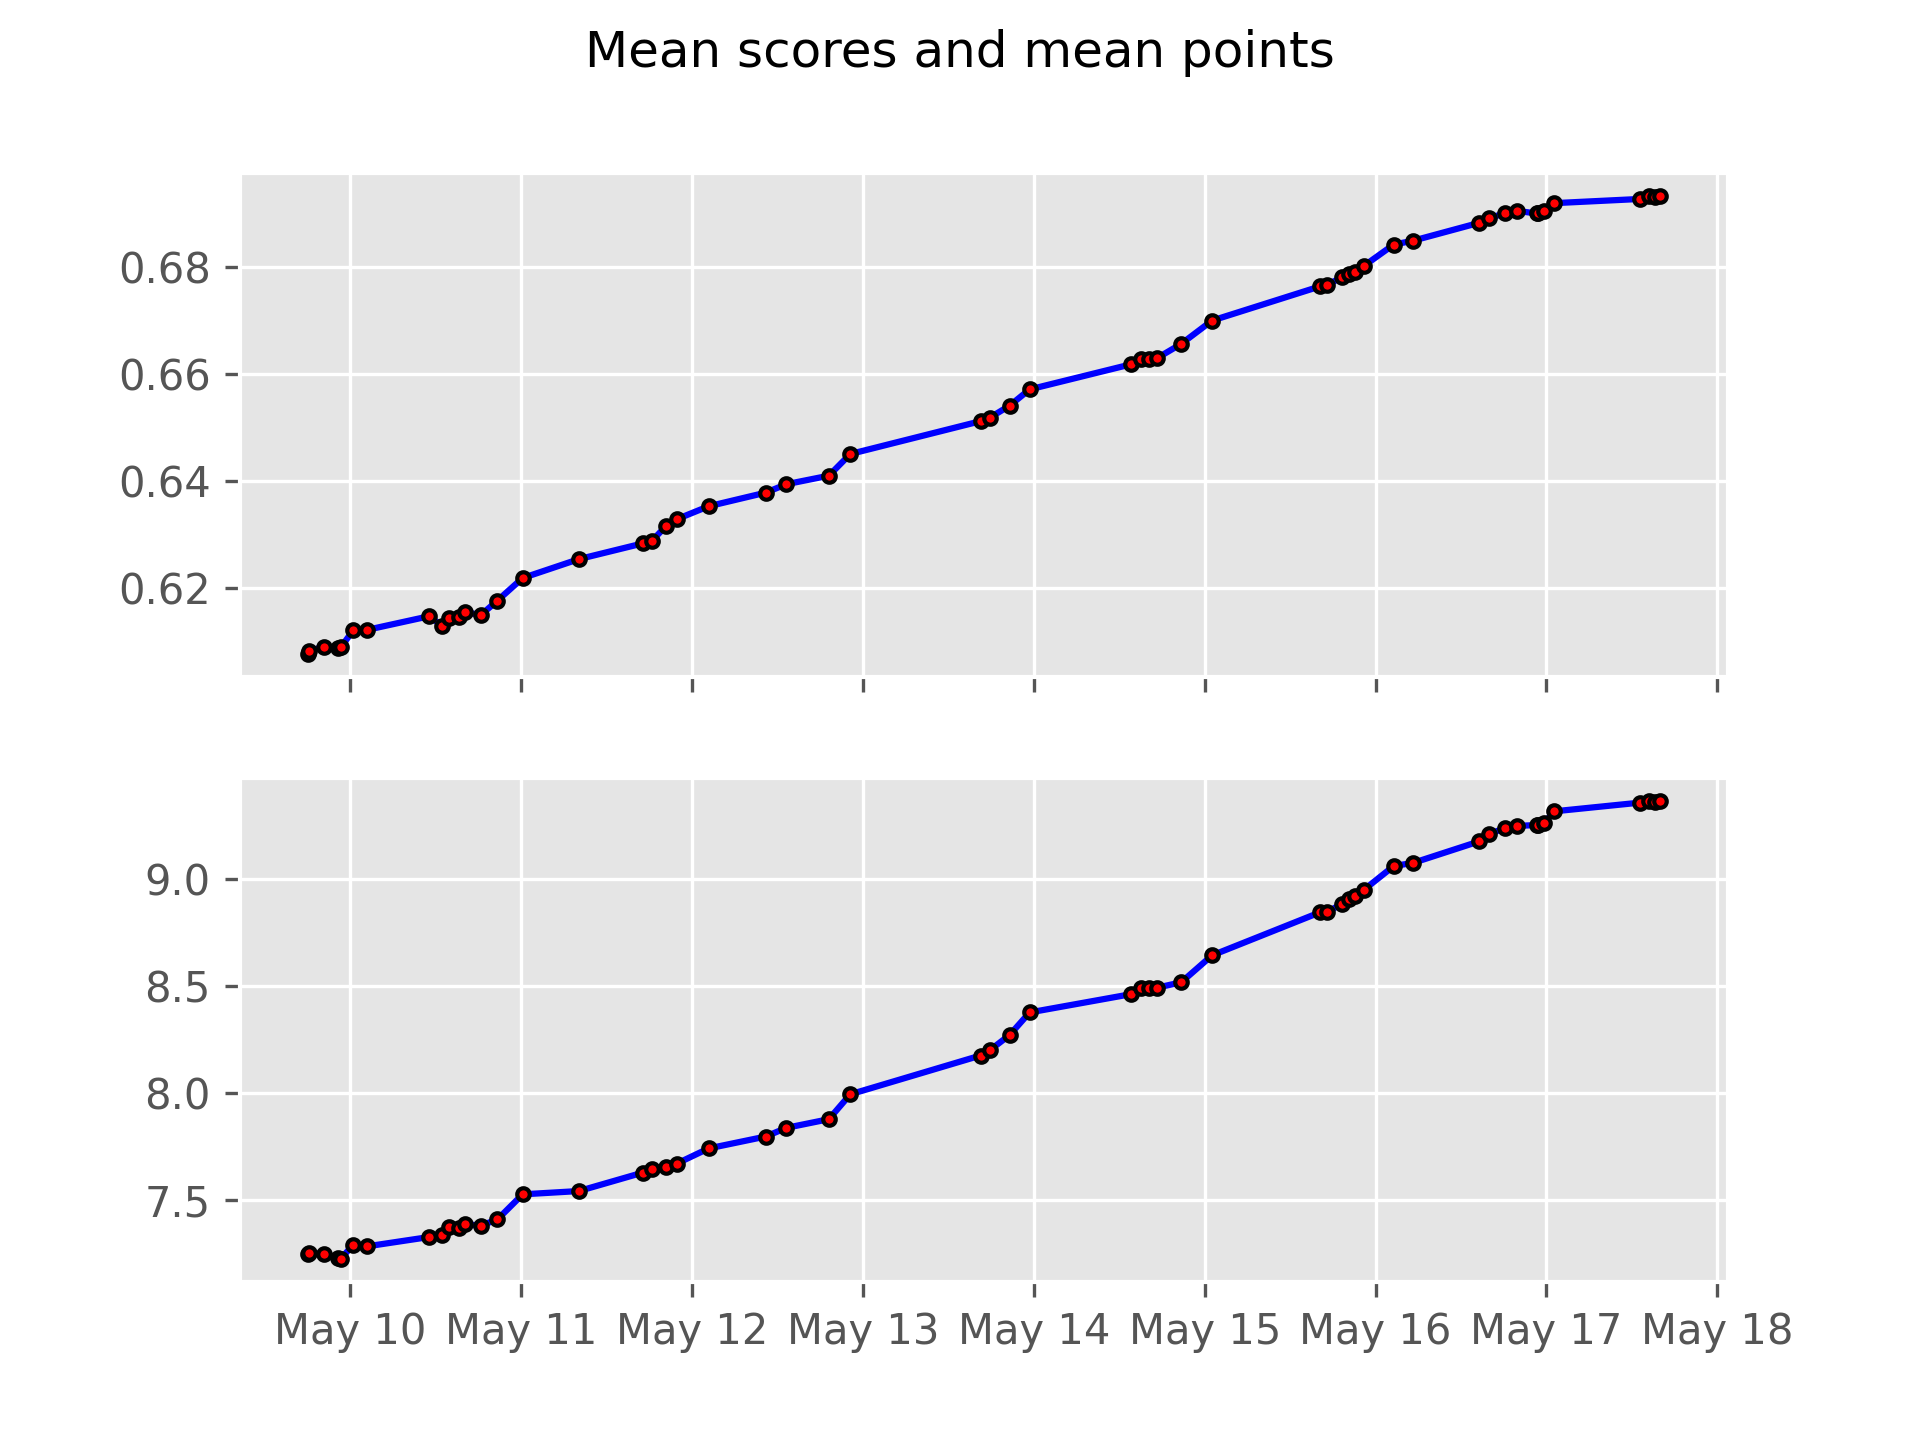
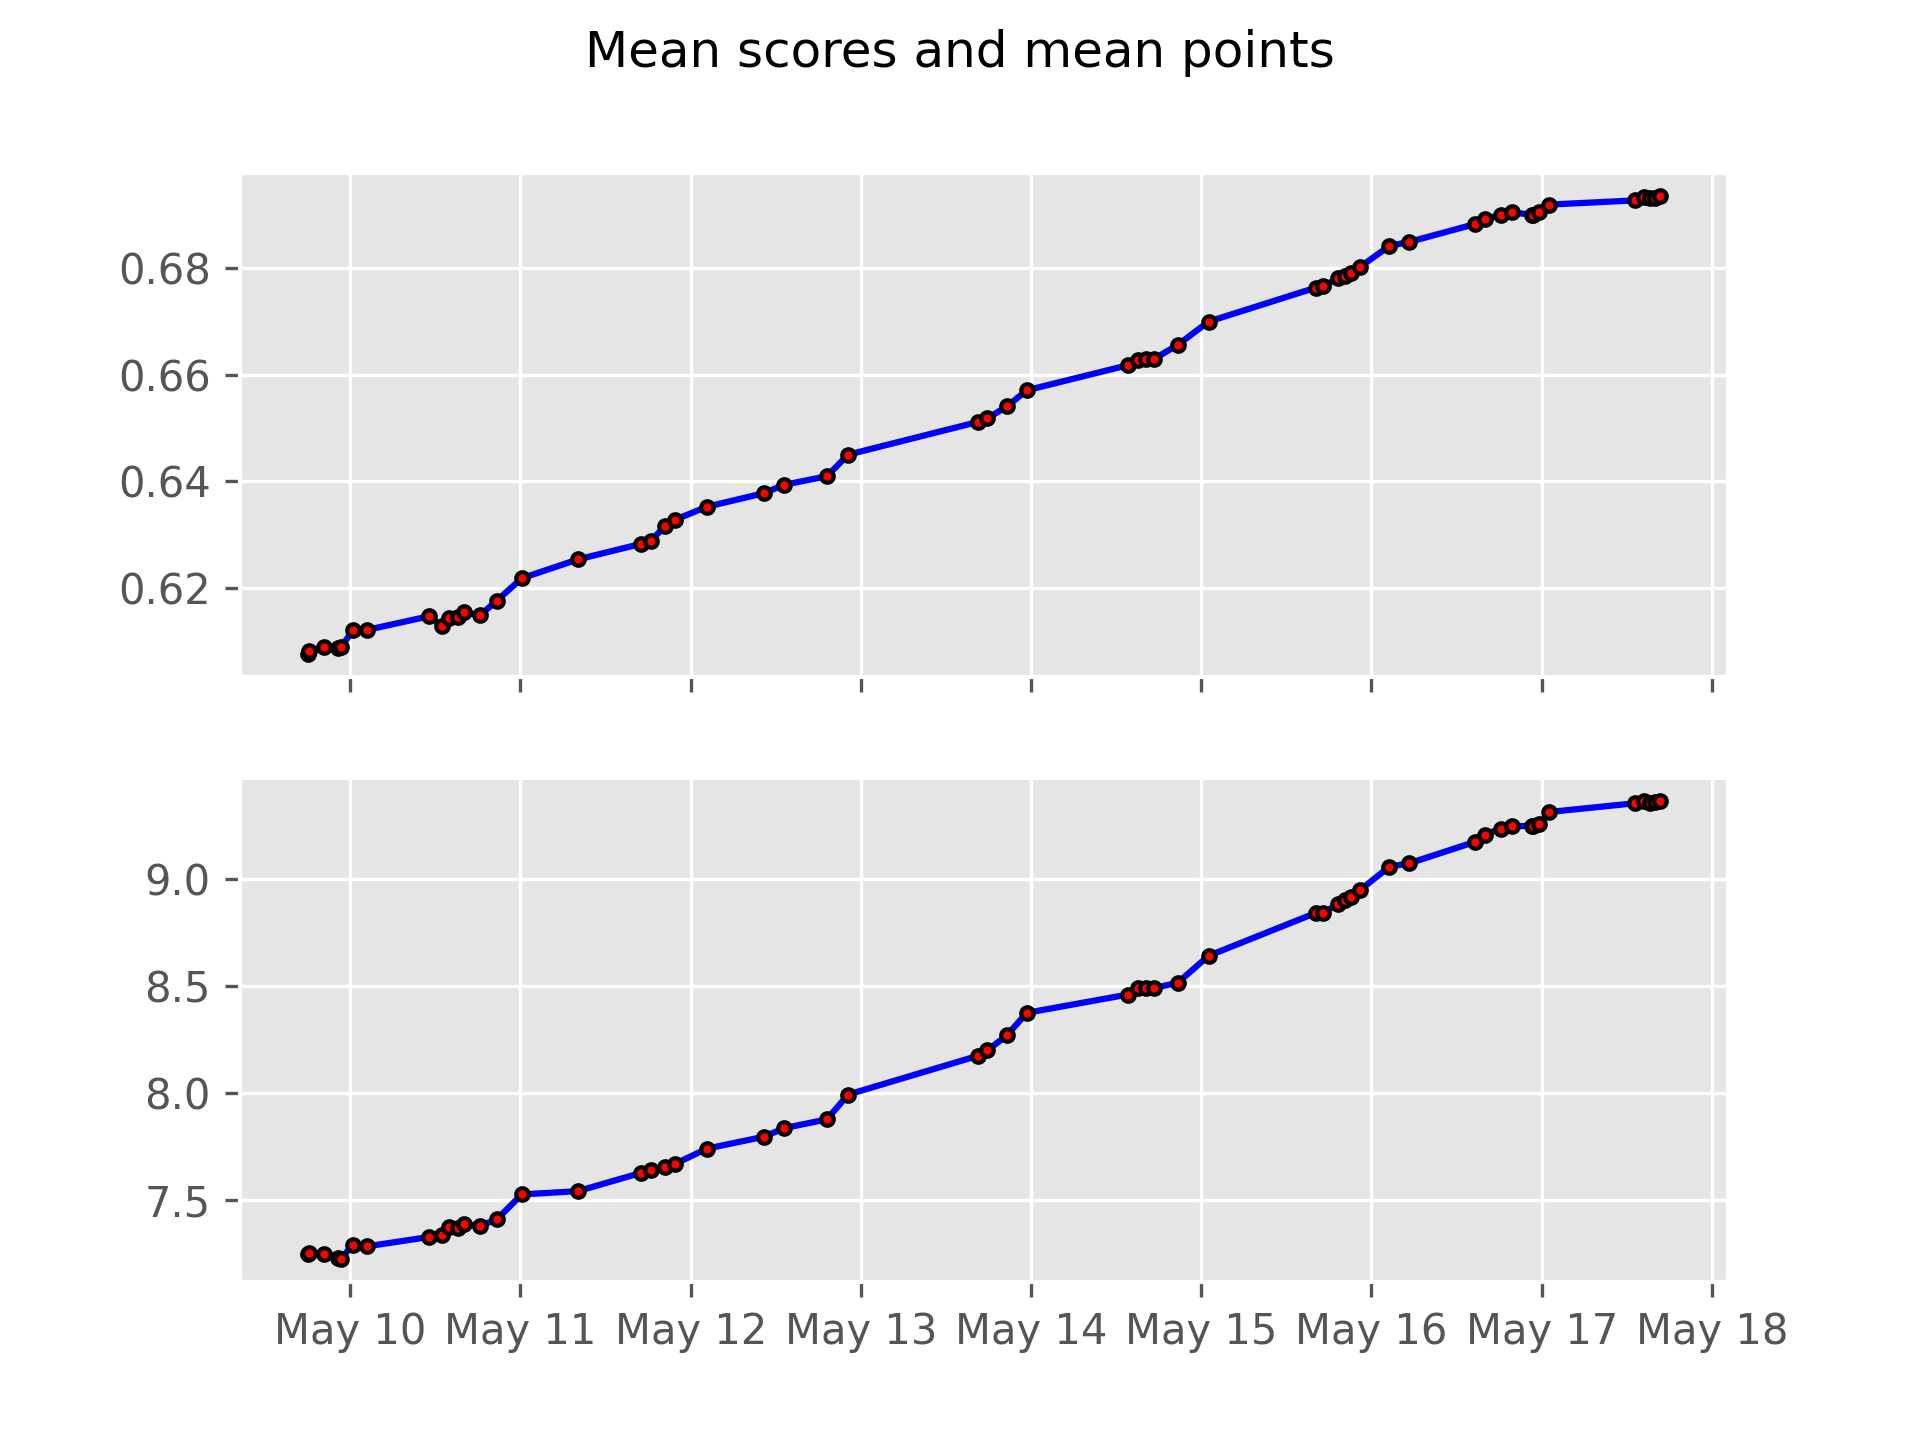
Updated: 2021-05-17 18:21:19

diff --git a/README.md b/README.md
@@ -1,6 +1,6 @@
 # ETC3250 Kaggle score
 
-**Last updated: May 17, 2021 16:44:19**
+**Last updated: May 17, 2021 18:21:19**
 
 ## WARNING: Your final grade is based on your score on the `private leaderboard`. 
 
@@ -23,72 +23,72 @@ Number of teams: 206
 |1|6759412|Davide Signor|17 May 12:40:27|0.86078|13|
 |2|6749482|dzho37|16 May 23:11:41|0.85342|13|
 |3|6754507|Not Admin|17 May 16:18:54|0.84946|13|
-|4|6765261|Real Admin @zyan0056|16 May 16:16:12|0.84663|13|
+|4|6765261|Real Admin @zyan0056|17 May 17:37:52|0.84663|13|
 |5|6767591|carljohnsonCJ|16 May 19:46:00|0.83870|13|
 |6|6754716|efre0004|17 May 02:39:44|0.82342|13|
 |7|6754129|ghan0002|16 May 15:42:02|0.82342|13|
 |8|6754828|mwjon5|15 May 18:05:18|0.80531|13|
 |9|6749705|zxio0011|16 May 10:09:25|0.80305|13|
 |10|6757633|lbao0008|17 May 13:10:21|0.79626|12|
-|11|6750698|yjia0021|16 May 19:17:41|0.79400|12|
-|12|6761625|Le-Hao Jian|16 May 22:16:10|0.79230|12|
-|13|6763983|Jpan0029|16 May 22:28:56|0.79173|12|
-|14|6755904|wtan0062|16 May 15:36:18|0.79003|12|
-|15|6750238|zzd|17 May 09:08:14|0.78607|12|
-|16|6768738|iamnotaduck|11 May 23:10:49|0.78607|12|
-|17|6760087|ssha0141|14 May 23:54:49|0.78438|12|
-|18|6749317|[Deleted] fcf8662d-9cae-4735-a131-9968aeda505a|09 May 10:43:07|0.78324|12|
-|19|6751555|jwah0003|16 May 21:15:29|0.78155|12|
-|20|6754465|vvoo0004|16 May 10:14:08|0.78098|12|
-|21|6763495|Yongkang Ni|16 May 13:59:43|0.77985|12|
-|22|6749357|pdai0002|17 May 15:18:52|0.77645|12|
-|23|6749592|igup0001|17 May 10:20:27|0.77589|12|
-|24|6776729|Admin3|16 May 13:04:21|0.77532|12|
-|25|6754050|Filippo Gioffre|17 May 12:32:23|0.77475|12|
-|26|6765501|iren0002|16 May 22:37:10|0.77475|12|
-|27|6766607|vietvo51|17 May 02:31:39|0.77419|12|
-|28|6753795|ttra0038|13 May 14:13:17|0.77419|12|
-|29|6767628|Bo Zhang 3520|17 May 00:28:42|0.77362|12|
-|30|6751314|cwei0018|16 May 22:07:49|0.77306|12|
-|31|6764289|Thomas Pranoto|17 May 01:21:29|0.77192|12|
-|32|6763202|dngu0066|17 May 10:25:46|0.76910|12|
-|33|6766956|sbat0011|17 May 08:42:41|0.76796|11|
-|34|6759022|claw0008|16 May 11:25:16|0.76796|11|
-|35|6754493|Po-Yu Huang|16 May 13:21:24|0.76796|11|
-|36|6764152|Pei Ni Lim|16 May 16:26:18|0.76740|11|
-|37|6759088|skhu0008|17 May 15:25:08|0.76740|11|
-|38|6755482|dche0021|15 May 18:39:06|0.76570|11|
-|39|6749892|Zhongzheng Zhang|16 May 17:34:04|0.76513|11|
-|40|6759838|xwuu0061|17 May 15:05:21|0.76287|11|
-|41|6768072|Jkan0025|17 May 16:32:25|0.76287|11|
-|42|6754021|ntry0001|17 May 14:35:44|0.76230|11|
-|43|6755781|vwid06|17 May 05:08:33|0.76174|11|
-|44|6753842|Anqi Luo|16 May 22:56:31|0.76117|11|
-|45|6756315|Qin Zhou 29287170|17 May 14:42:15|0.76117|11|
-|46|6768276|Alex Chou|17 May 15:34:23|0.76061|11|
-|47|6755448|jwan0296|16 May 18:52:06|0.76061|11|
-|48|6759326|Emily Sheehan|17 May 13:32:11|0.76061|11|
-|49|6749366|xwan0160|16 May 23:33:43|0.75891|11|
-|50|6751334|yzha0275|17 May 12:19:36|0.75834|11|
-|51|6750247|Kevin Tat17|17 May 16:27:17|0.75721|11|
-|52|6749412|Monchy|17 May 13:30:49|0.75721|11|
-|53|6754693|xwan0169|14 May 09:20:24|0.75664|11|
-|54|6758694|nhee0002|16 May 20:21:14|0.75495|11|
-|55|6768666|jham0020|16 May 23:44:06|0.75325|11|
-|56|6750103|heva0001|17 May 16:42:32|0.75268|11|
-|57|6754314|Alexi Tsakis|17 May 13:59:33|0.75099|11|
-|58|6764345|yliu0320|16 May 19:42:52|0.75099|11|
-|59|6750774|yhua0047|15 May 15:45:06|0.74985|11|
-|60|6759731|Daniel Ong|17 May 03:07:00|0.74985|11|
-|61|6758777|Gayani Amali Balasuriya|17 May 12:29:32|0.74872|11|
-|62|6754556|sami0006|16 May 16:22:20|0.74759|11|
-|63|6750485|Zhongxuan Yin|13 May 14:53:31|0.74646|11|
-|64|6760317|Wliu0044|17 May 16:23:56|0.74646|11|
-|65|6765326|ywan0454|12 May 02:49:19|0.74533|11|
-|66|6764575|jngu0046|16 May 12:45:55|0.74533|11|
+|11|6750698|yjia0021|17 May 17:36:20|0.79400|12|
+|12|6764575|jngu0046|17 May 17:28:19|0.79286|12|
+|13|6761625|Le-Hao Jian|16 May 22:16:10|0.79230|12|
+|14|6763983|Jpan0029|16 May 22:28:56|0.79173|12|
+|15|6755904|wtan0062|16 May 15:36:18|0.79003|12|
+|16|6750238|zzd|17 May 09:08:14|0.78607|12|
+|17|6768738|iamnotaduck|11 May 23:10:49|0.78607|12|
+|18|6760087|ssha0141|14 May 23:54:49|0.78438|12|
+|19|6749317|[Deleted] fcf8662d-9cae-4735-a131-9968aeda505a|09 May 10:43:07|0.78324|12|
+|20|6751555|jwah0003|16 May 21:15:29|0.78155|12|
+|21|6754465|vvoo0004|16 May 10:14:08|0.78098|12|
+|22|6763495|Yongkang Ni|16 May 13:59:43|0.77985|12|
+|23|6749357|pdai0002|17 May 15:18:52|0.77645|12|
+|24|6749592|igup0001|17 May 10:20:27|0.77589|12|
+|25|6776729|Admin3|16 May 13:04:21|0.77532|12|
+|26|6754050|Filippo Gioffre|17 May 12:32:23|0.77475|12|
+|27|6765501|iren0002|16 May 22:37:10|0.77475|12|
+|28|6766607|vietvo51|17 May 02:31:39|0.77419|12|
+|29|6753795|ttra0038|13 May 14:13:17|0.77419|12|
+|30|6767628|Bo Zhang 3520|17 May 00:28:42|0.77362|12|
+|31|6751314|cwei0018|16 May 22:07:49|0.77306|12|
+|32|6764289|Thomas Pranoto|17 May 01:21:29|0.77192|12|
+|33|6763202|dngu0066|17 May 10:25:46|0.76910|12|
+|34|6759022|claw0008|17 May 17:22:07|0.76853|11|
+|35|6766956|sbat0011|17 May 18:07:31|0.76796|11|
+|36|6754493|Po-Yu Huang|16 May 13:21:24|0.76796|11|
+|37|6764152|Pei Ni Lim|16 May 16:26:18|0.76740|11|
+|38|6759088|skhu0008|17 May 15:25:08|0.76740|11|
+|39|6755482|dche0021|15 May 18:39:06|0.76570|11|
+|40|6749892|Zhongzheng Zhang|16 May 17:34:04|0.76513|11|
+|41|6759838|xwuu0061|17 May 15:05:21|0.76287|11|
+|42|6768072|Jkan0025|17 May 16:32:25|0.76287|11|
+|43|6754021|ntry0001|17 May 14:35:44|0.76230|11|
+|44|6755781|vwid06|17 May 05:08:33|0.76174|11|
+|45|6753842|Anqi Luo|16 May 22:56:31|0.76117|11|
+|46|6756315|Qin Zhou 29287170|17 May 14:42:15|0.76117|11|
+|47|6768276|Alex Chou|17 May 15:34:23|0.76061|11|
+|48|6755448|jwan0296|16 May 18:52:06|0.76061|11|
+|49|6759326|Emily Sheehan|17 May 13:32:11|0.76061|11|
+|50|6749366|xwan0160|16 May 23:33:43|0.75891|11|
+|51|6751334|yzha0275|17 May 12:19:36|0.75834|11|
+|52|6750247|Kevin Tat17|17 May 16:27:17|0.75721|11|
+|53|6749412|Monchy|17 May 13:30:49|0.75721|11|
+|54|6754693|xwan0169|14 May 09:20:24|0.75664|11|
+|55|6758694|nhee0002|16 May 20:21:14|0.75495|11|
+|56|6768666|jham0020|16 May 23:44:06|0.75325|11|
+|57|6750103|heva0001|17 May 16:42:32|0.75268|11|
+|58|6754314|Alexi Tsakis|17 May 13:59:33|0.75099|11|
+|59|6764345|yliu0320|16 May 19:42:52|0.75099|11|
+|60|6750774|yhua0047|15 May 15:45:06|0.74985|11|
+|61|6759731|Daniel Ong|17 May 03:07:00|0.74985|11|
+|62|6758777|Gayani Amali Balasuriya|17 May 12:29:32|0.74872|11|
+|63|6754556|sami0006|16 May 16:22:20|0.74759|11|
+|64|6750485|Zhongxuan Yin|13 May 14:53:31|0.74646|11|
+|65|6760317|Wliu0044|17 May 16:23:56|0.74646|11|
+|66|6765326|ywan0454|12 May 02:49:19|0.74533|11|
 |67|6749461|mkar0012|16 May 14:43:07|0.74476|11|
 |68|6751520|mluk0004|17 May 15:48:40|0.74419|11|
-|69|6783780|mshi0014|16 May 21:53:55|0.74306|11|
+|69|6783780|mshi0014|17 May 16:54:52|0.74306|11|
 |70|6756740|psap0002|16 May 17:43:14|0.74193|11|
 |71|6755109|Dea Avega Editya|17 May 10:44:40|0.74136|11|
 |72|6760740|qwan0060|15 May 00:05:05|0.74080|11|
@@ -105,7 +105,7 @@ Number of teams: 206
 |83|6760878|Oblong|14 May 09:53:00|0.72891|10|
 |84|6765541|wtan0001|16 May 15:08:01|0.72608|10|
 |85|6750421|sche0149|16 May 15:36:49|0.72608|10|
-|86|6763455|Ziyue Zhang|15 May 00:26:27|0.72552|10|
+|86|6763455|Ziyue Zhang|17 May 17:45:21|0.72552|10|
 |87|6768117|avon0005|16 May 12:57:45|0.72439|10|
 |88|6753551|dorl0002|17 May 01:10:08|0.72043|10|
 |89|6753813|yzha0633|17 May 10:44:39|0.71986|10|
@@ -148,12 +148,12 @@ Number of teams: 206
 |126|6765060|khyd0001|15 May 21:09:15|0.66044|8|
 |127|6768582|ague0004|17 May 14:17:58|0.66044|8|
 |128|6765741|bwen0003|14 May 01:20:38|0.65817|8|
-|129|6767860|ylii0273|16 May 22:02:38|0.65647|8|
+|129|6767860|ylii0273|17 May 17:14:59|0.65647|8|
 |130|6765463|lwan0125|15 May 23:55:43|0.65647|8|
 |131|6800064|Thuy Tran LINH|15 May 16:13:51|0.65534|<=7|
 |132|6763613|ofon0002|15 May 16:38:24|0.65251|<=7|
 |133|6761203|ajai0024|17 May 00:15:27|0.65195|<=7|
-|134|6763638|heva0003|17 May 12:41:40|0.65025|<=7|
+|134|6763638|heva0003|17 May 17:32:14|0.65025|<=7|
 |135|6764503|Yu Zhou|16 May 00:00:03|0.64516|<=7|
 |136|6766440|Chenjie Gong|17 May 12:51:02|0.64516|<=7|
 |137|6761697|azad0001|17 May 15:15:21|0.64289|<=7|
@@ -168,13 +168,13 @@ Number of teams: 206
 |146|6754085|Tomer Fridland|16 May 16:55:49|0.62139|<=7|
 |147|6756086|akha0059|16 May 20:47:01|0.61912|<=7|
 |148|6738627|predictions_2021-05-04.csv|04 May 17:42:25|0.61516|<=7|
-|149|6750168|Ruimin Lin|12 May 18:34:34|0.61516|<=7|
+|149|6750168|Ruimin Lin|17 May 17:17:21|0.61516|<=7|
 |150|6750648|[Deleted] a1fcae29-177c-495d-be3e-ecb1d2e418e1|06 May 20:32:47|0.61516|<=7|
 |151|6751310|Cpen0009|16 May 01:16:05|0.61516|<=7|
 |152|6753687|Juliette101|16 May 13:51:41|0.61516|<=7|
 |153|6754262|Namrata Goel|07 May 13:16:59|0.61516|<=7|
 |154|6754439|cyee0011|17 May 12:50:07|0.61516|<=7|
-|155|6754610|dvek0001|17 May 10:59:09|0.61516|<=7|
+|155|6754610|dvek0001|17 May 16:49:03|0.61516|<=7|
 |156|6754890|ctin0006|07 May 17:54:53|0.61516|<=7|
 |157|6756637|lqia0006|17 May 03:06:04|0.61516|<=7|
 |158|6758582|Vinny Vu|17 May 13:10:24|0.61516|<=7|
